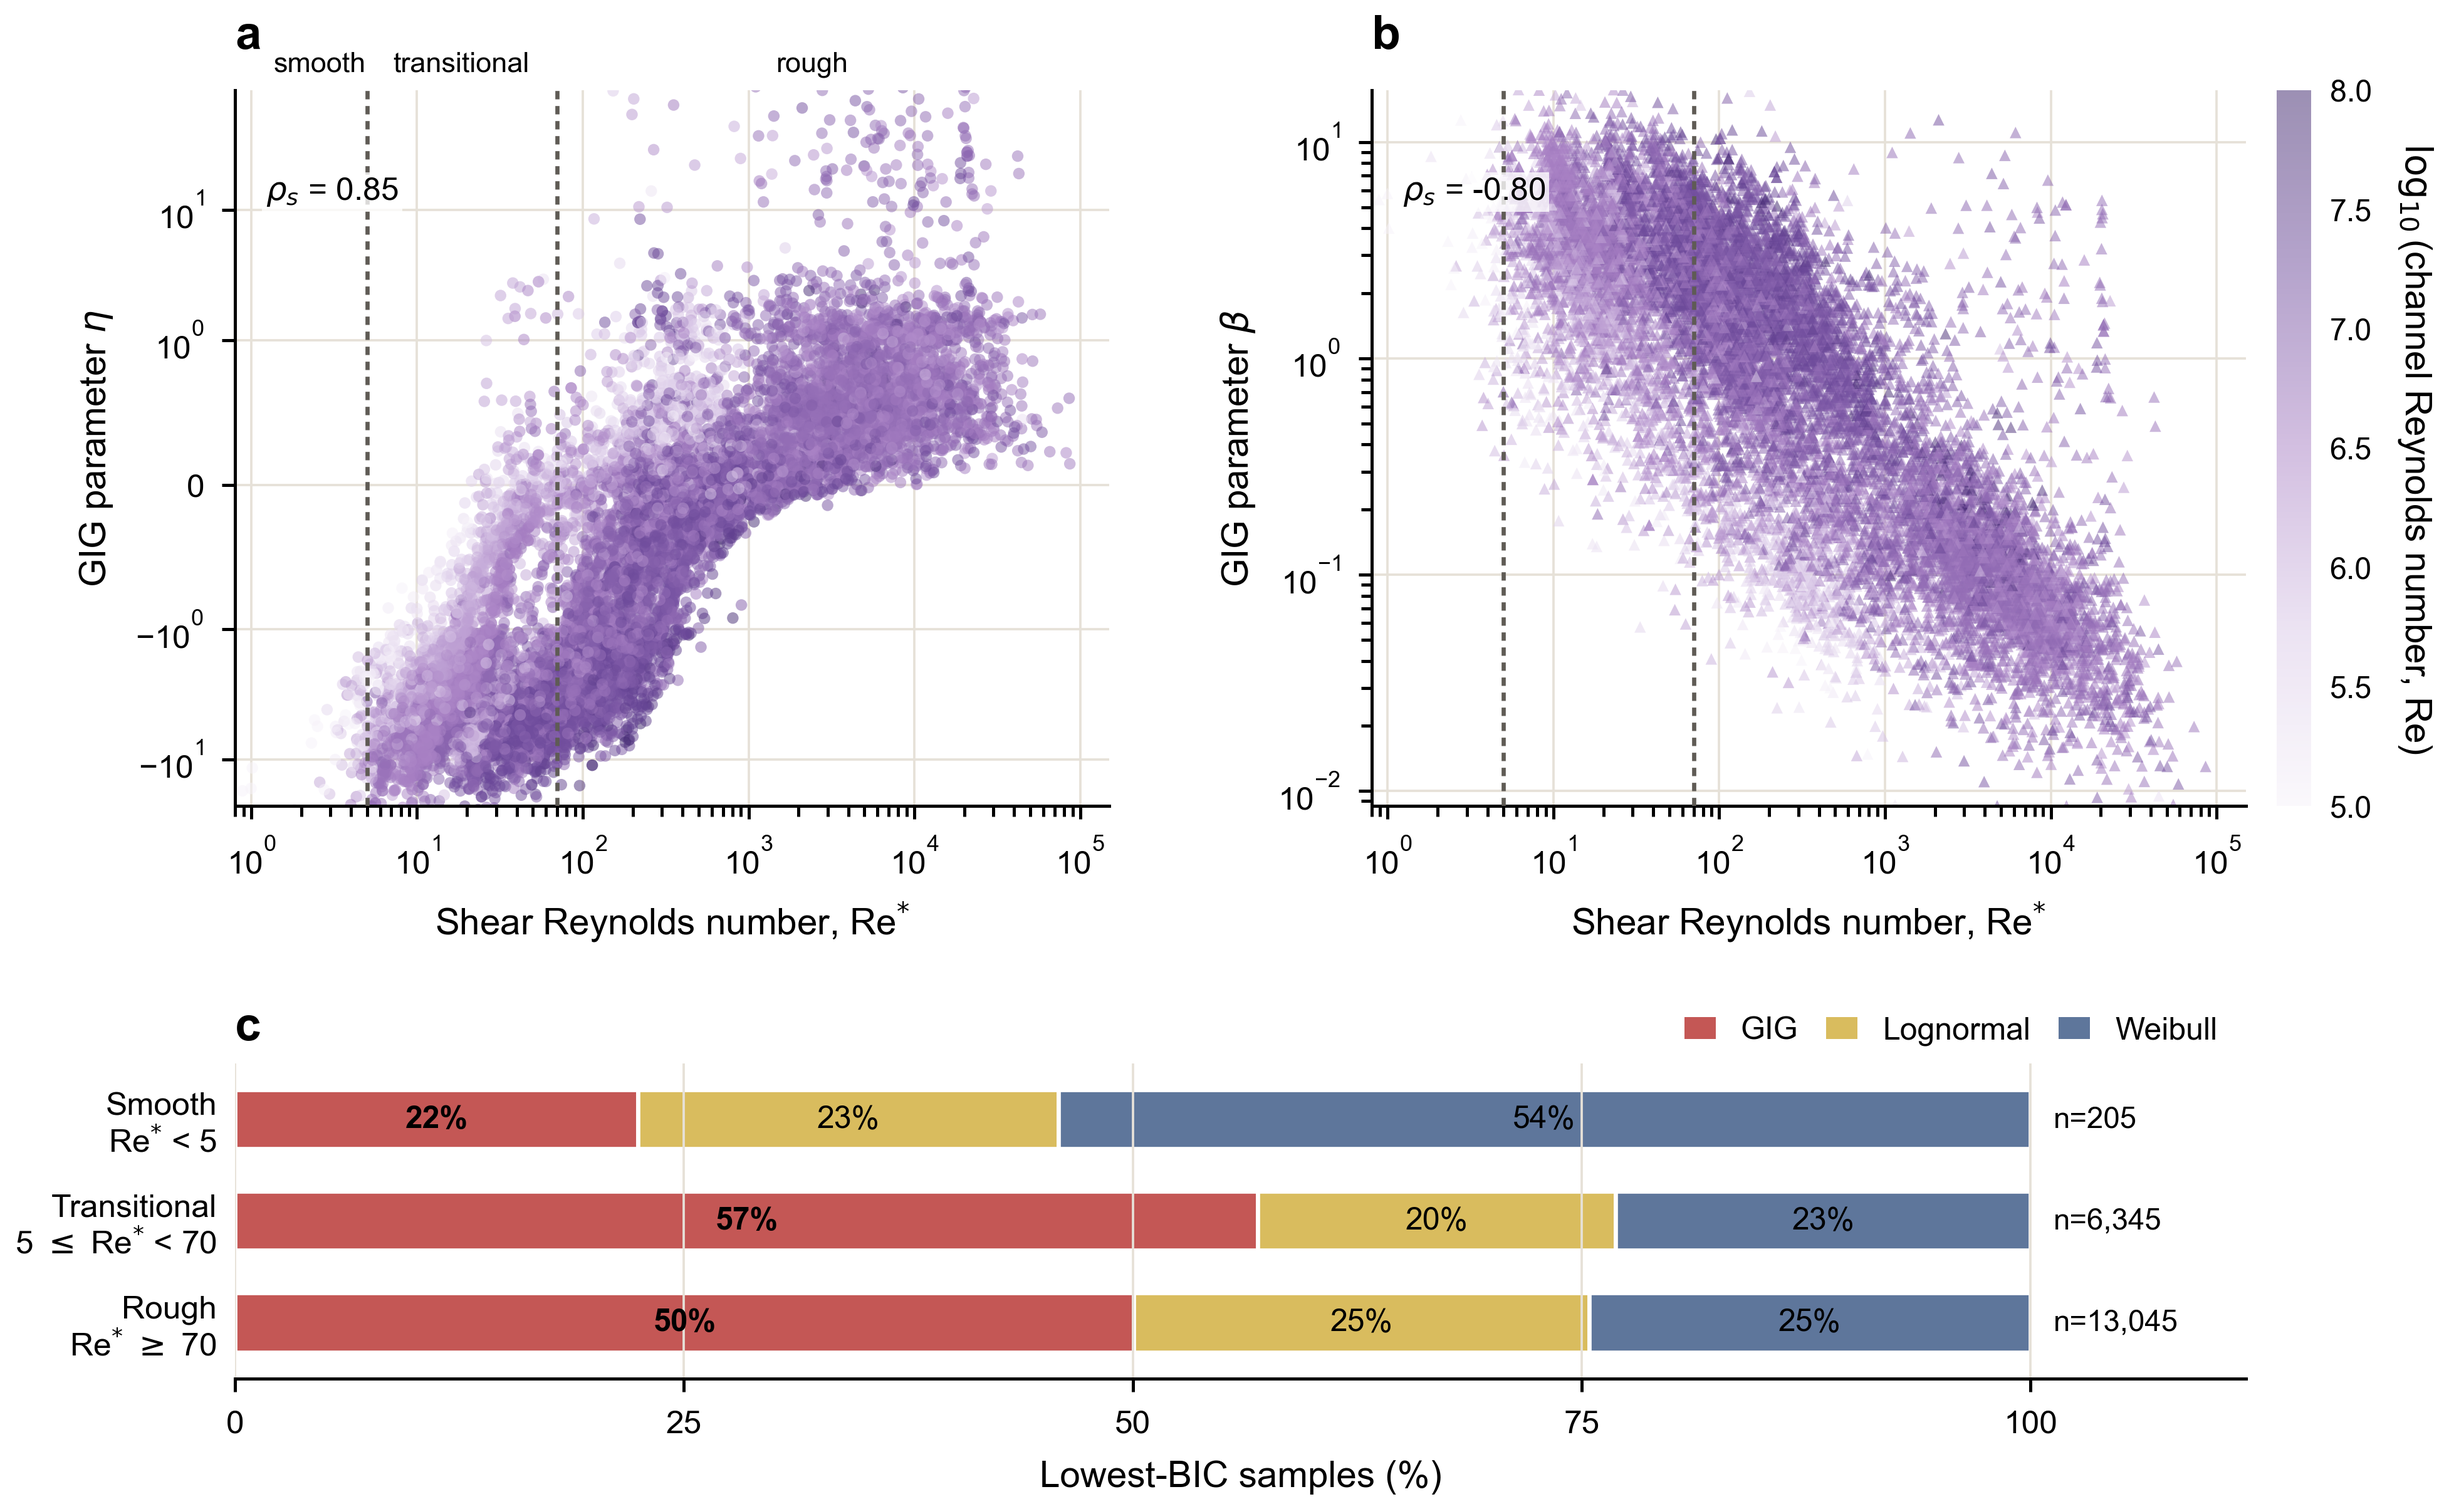
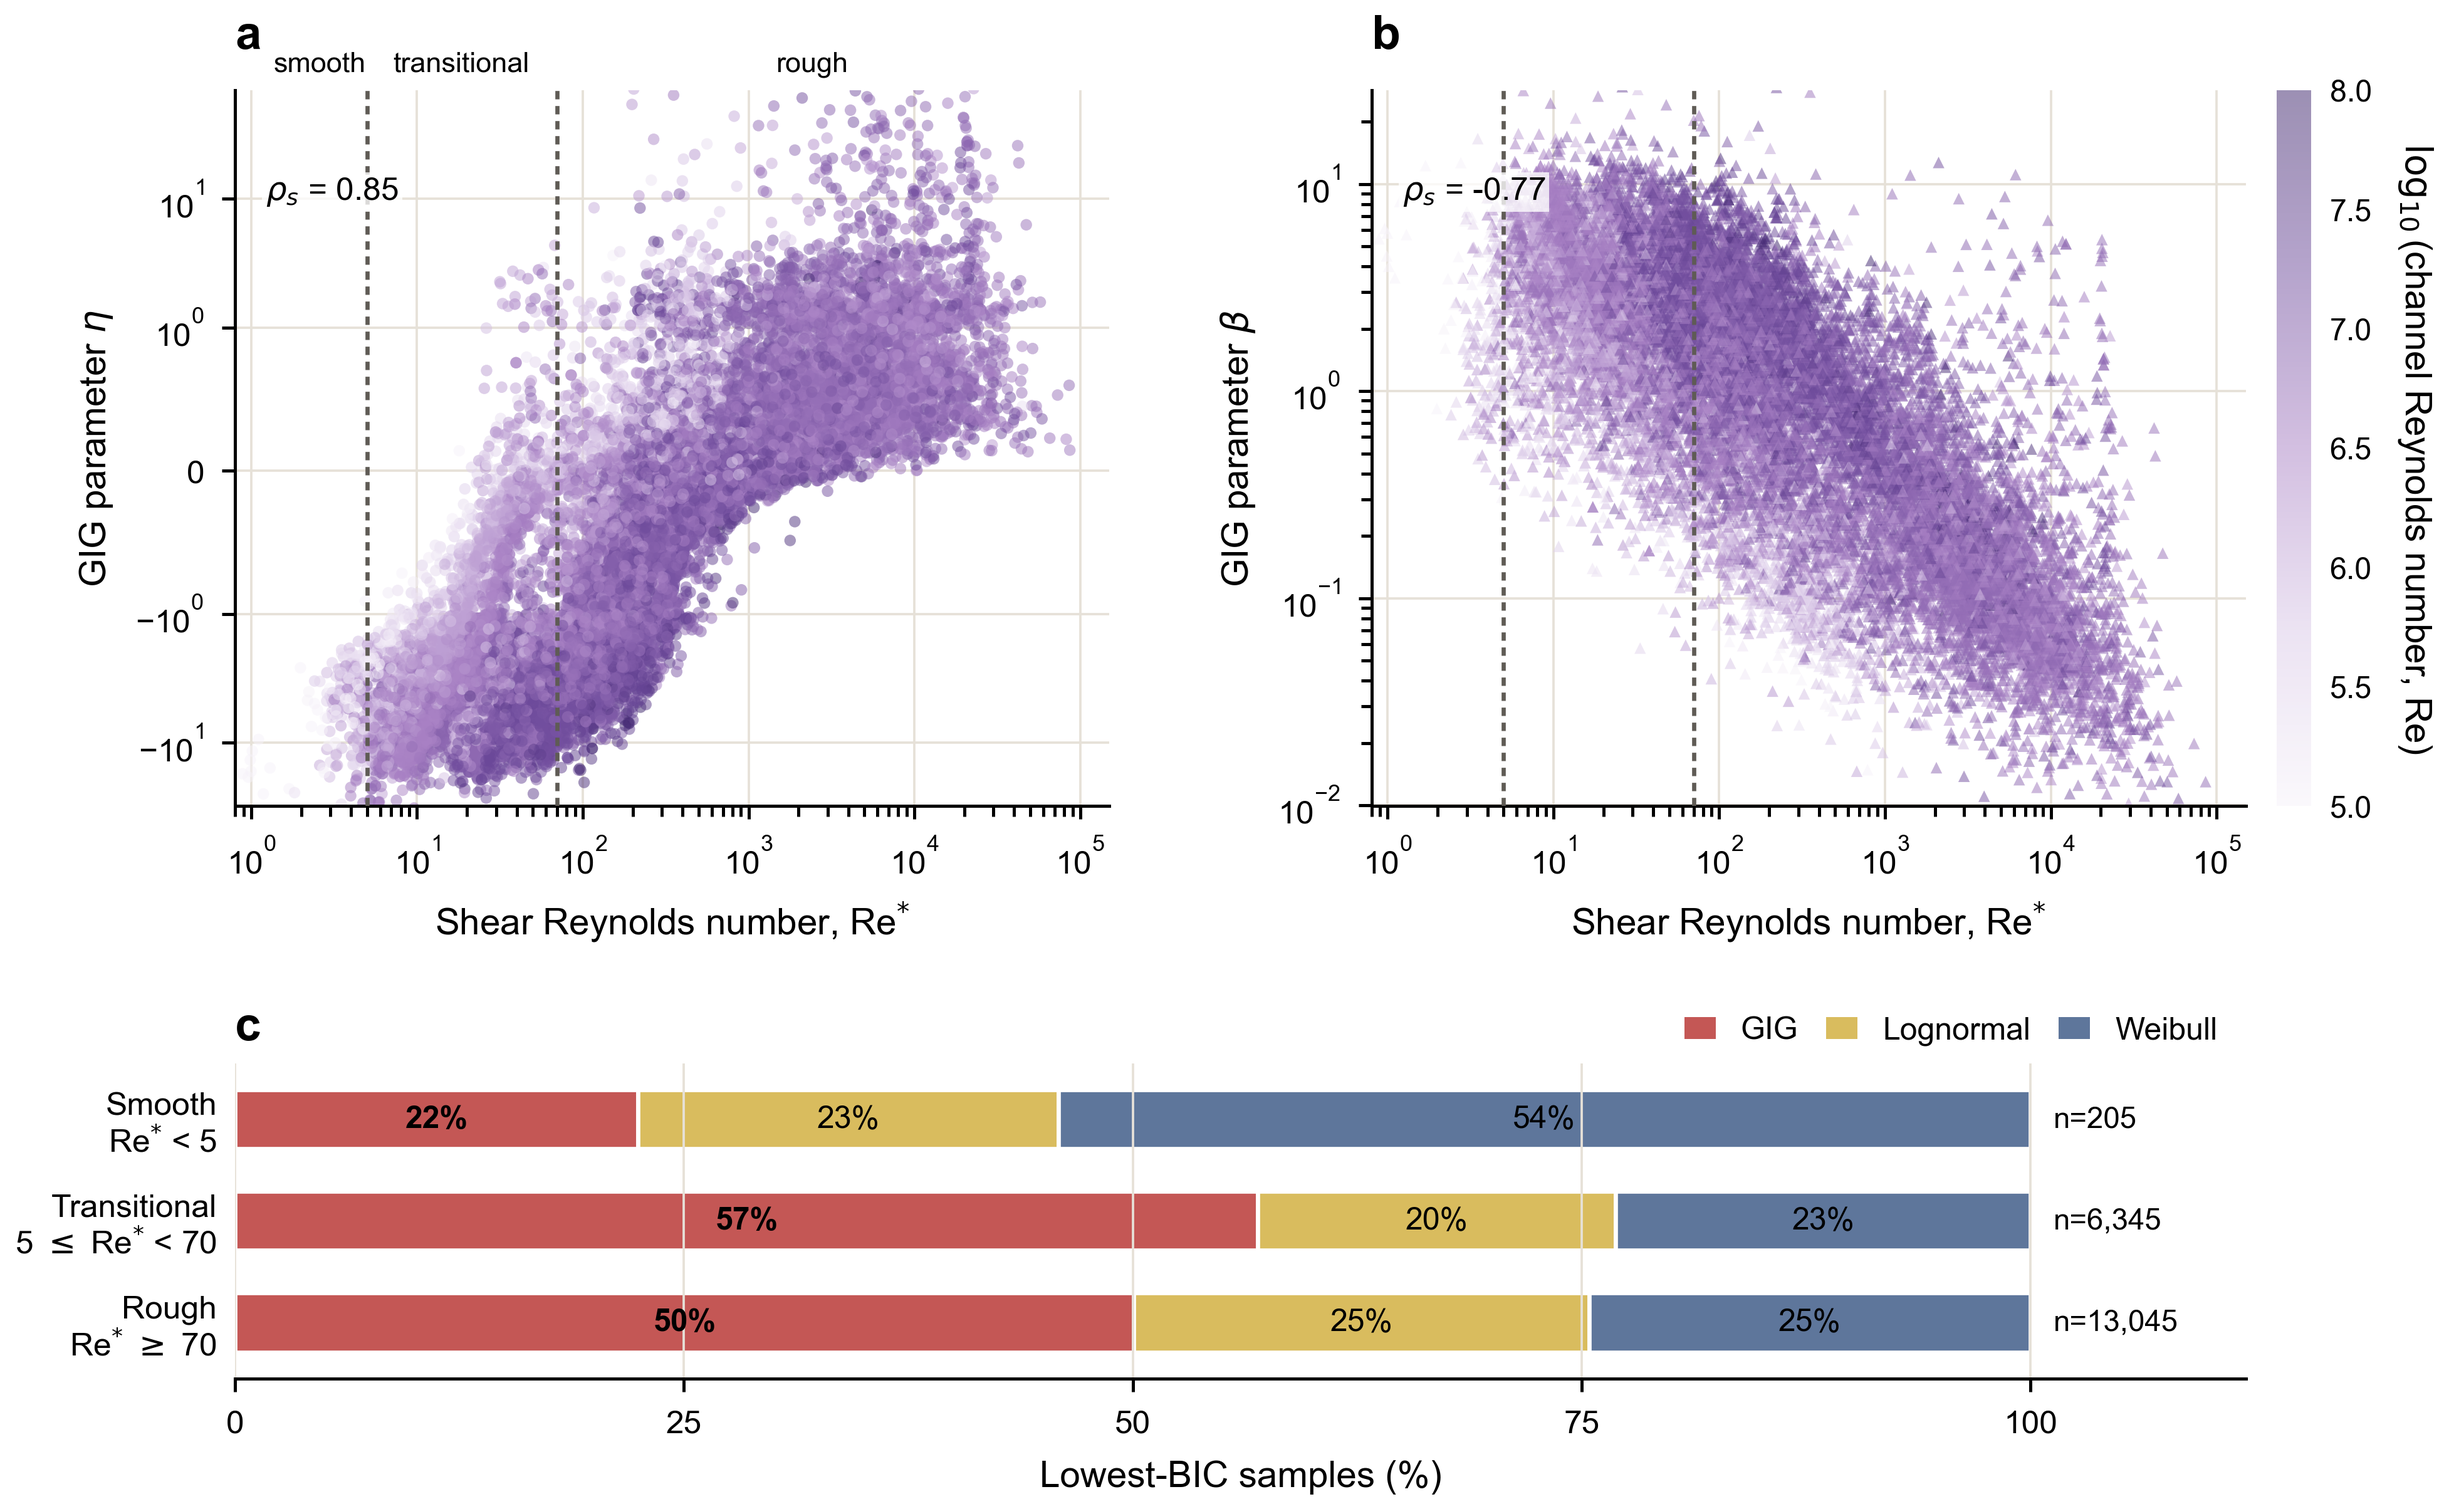
Fix the Folk-Ward phi convention, and drop the best-fit filter from Fig. 3a,b
Two corrections, both about which samples or which subscripts a statistic uses.

1. folk_ward() mapped phi_p to -log2(D_p). The phi percentile subscripts are
   complementary to the millimetre ones -- phi16 is -log2(D84) -- so this negated
   the sorting and the skewness while leaving the graphic mean and kurtosis exact,
   which is why it went unnoticed: a negative sorting coefficient was the only tell.

   The Lower Rhine skewness classes were therefore reported inverted. Corrected,
   they are 48 fine-skewed, 18 near-symmetric and 1 coarse-skewed -- exactly what
   the manuscript says. An earlier commit claimed the manuscript had this backwards;
   it did not, and audit_numbers.py no longer asserts that.

   Validated two ways: a synthetic fine-tailed distribution now gives positive
   skewness and positive sorting, and all four statistics reproduce Kseniia's CONUS
   column to 1e-15 on 2,000 samples. The Rhine and CONUS now use one standard.

2. Fig. 3a,b restricted each function to the samples where it is in the best-fit
   set (GIG n = 13,796). The correlations quoted in the text match the unrestricted
   set instead, so the figure disagreed with its own reported numbers. All samples
   with a valid hydraulic estimate is now the default, n = 19,595, and the panels
   print rho = 0.85 and -0.77 as published. --best-fit-only keeps the old behaviour.
   Panel c still uses lowest-BIC winners, which is what it is about.
[…]

diff --git a/scripts/fig_03.py b/scripts/fig_03.py
@@ -106,7 +106,7 @@ def load_fit(function_name: str) -> pd.DataFrame:
     return fit.replace([np.inf, -np.inf], np.nan)
 
 
-def parameter_table(hydro: pd.DataFrame, function_name: str, best_only: bool = True) -> pd.DataFrame:
+def parameter_table(hydro: pd.DataFrame, function_name: str, best_only: bool = False) -> pd.DataFrame:
     fit = load_fit(function_name)
     data = hydro.merge(fit, on="sample_ID", how="inner")
     if best_only:
@@ -120,7 +120,7 @@ def parameter_table(hydro: pd.DataFrame, function_name: str, best_only: bool = T
     return data
 
 
-def build_correlations(hydro: pd.DataFrame, best_only: bool = True) -> pd.DataFrame:
+def build_correlations(hydro: pd.DataFrame, best_only: bool = False) -> pd.DataFrame:
     rows = []
     for function_name in FUNCTION_ORDER:
         data = parameter_table(hydro, function_name, best_only=best_only)
@@ -345,7 +345,7 @@ def make_figure(
     metrics_path: Path,
     bic_one_path: Path,
     out_prefix: Path,
-    best_only: bool = True,
+    best_only: bool = False,
     fmt: str = "png",
 ) -> None:
     setup_style()
@@ -426,9 +426,11 @@ def main() -> None:
     parser.add_argument("--bic-one", type=Path, default=DEFAULT_BIC_ONE)
     parser.add_argument("--out", type=Path, default=DEFAULT_OUT)
     parser.add_argument(
-        "--all-fits",
+        "--best-fit-only",
         action="store_true",
-        help="Use all fitted samples for each function instead of samples where the function is selected as best fit.",
+        help="Panels a and b: restrict each function to the samples where it is in the "
+             "best-fit set. The default uses every sample with a valid hydraulic estimate, "
+             "which is the basis of the correlations quoted in the text.",
     )
     add_format_argument(parser)
     args = parser.parse_args()
@@ -436,7 +438,7 @@ def main() -> None:
         args.metrics.expanduser(),
         args.bic_one.expanduser(),
         args.out.expanduser(),
-        best_only=not args.all_fits,
+        best_only=args.best_fit_only,
         fmt=args.format,
     )
 

diff --git a/scripts/audit_numbers.py b/scripts/audit_numbers.py
@@ -224,7 +224,8 @@ def check_correlations() -> None:
         columns={"Re_reference": "Re", "Re_shear_reference": "Re_star"})
     frame = frame.replace([np.inf, -np.inf], np.nan).dropna(subset=["Re", "Re_star"])
     frame = frame[(frame["Re"] > 0) & (frame["Re_star"] > 0)]
-    record("fig3", "hydraulically complete samples", 19596, len(frame), 0)
+    record("fig3", "hydraulically complete samples", 19596, len(frame), 0,
+           note="one sample (25839) lost its D84 to the CDF round-trip check, so 19,595")
     fit = pd.read_csv(fit_path, usecols=["sample_ID", "fitted_A", "fitted_B"])
     merged = frame.merge(fit, on="sample_ID", how="inner")
     for column, name, published in (("fitted_A", "eta", 0.85), ("fitted_B", "beta", -0.77)):
